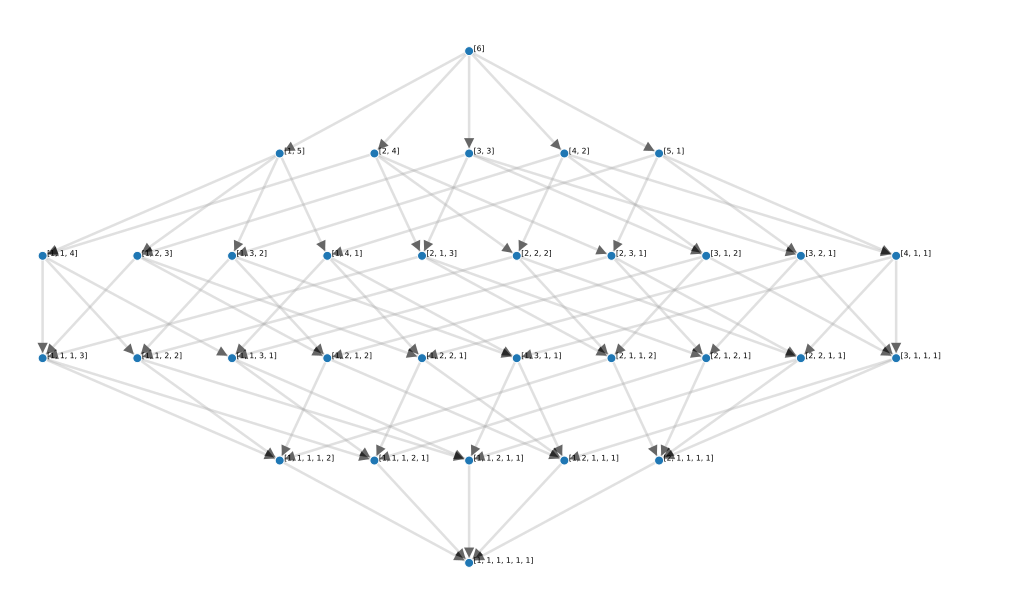
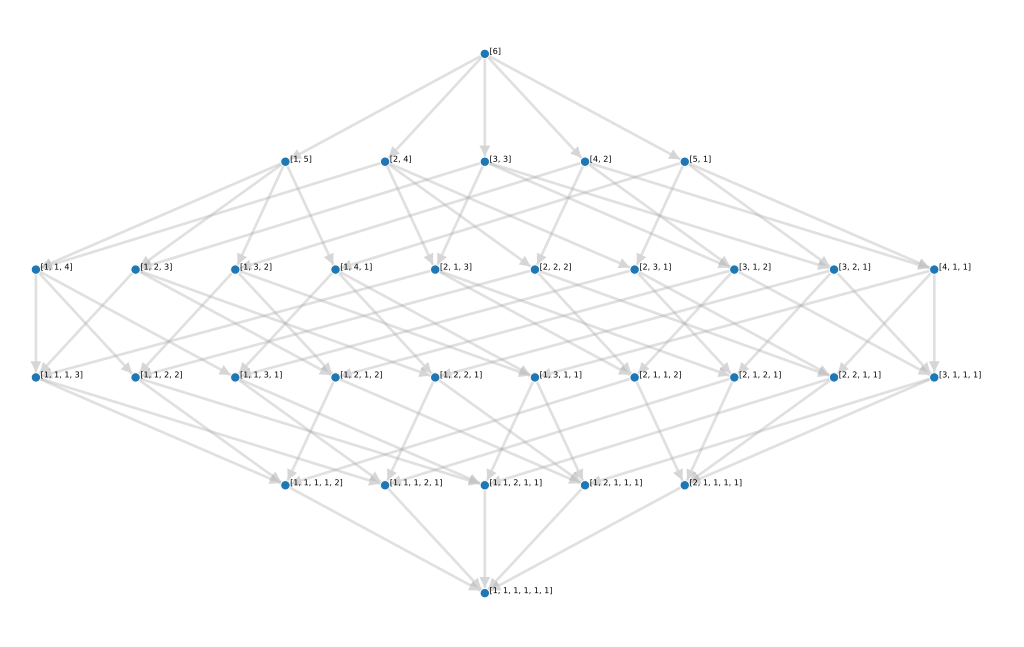
Add x shift offset since labels are on RHS

diff --git a/demo_ic6.html b/demo_ic6.html
@@ -1,3 +1,4 @@
+<html><body>
 <svg height="959.8080383923215" pointer-events="all" width="1520.08">
  <g>
   <rect height="959.8080383923215" opacity="0" width="1520.08" x="0" y="0">
@@ -426,3 +427,4 @@
   </defs>
  </g>
 </svg>
+</html></body>

diff --git a/svg_gen.py b/svg_gen.py
@@ -27,6 +27,12 @@ def svg_from_json(json, scale=800, pprint=False, printer=sys.stdout):
     span = pos.max(axis=0) - pos.min(axis=0)
     aspect_ratio = np.divide(*span) # wide if AR > 1, narrow if AR < 1
     h, w = 2 * scale / span
+    shift = (np.array([w, h]) - scale * span) / 2
+    shift_downscale = (2.5, 1) # Reduce the x (left) shift to account for RHS label
+    shift_loss = shift - (shift / shift_downscale)
+    shift /= shift_downscale
+    # Account for the trimmed left shift (avoid "spare width" on RHS)
+    w, h = (w, h) - shift_loss
     circ_radius = 7
     svg_tag = svg.new_tag("svg", attrs={
         "width": w,
@@ -49,8 +55,6 @@ def svg_from_json(json, scale=800, pprint=False, printer=sys.stdout):
     sources = [e.get("source") for e in json.get("links")]
     targets = [e.get("target") for e in json.get("links")]
     arcs = np.array([sources, targets]).T
-    shift = (np.array([w, h]) - scale * span) / 2
-    shift /= (2, 1) # Reduce the left shift a little to account for RHS label
     scaled_positions = scale * (pos - pos.min(axis=0)) + shift
     scaled_arc_positions = scale * (pos - pos.min(axis=0))[arcs] + shift
     arc_style = "stroke: rgb(170, 170, 170); stroke-width: 4px;"
@@ -98,7 +102,8 @@ def svg_from_json(json, scale=800, pprint=False, printer=sys.stdout):
         "markerWidth": vb_width,
         "markerHeight": vb_height,
         "preserveAspectRatio": "none",
-        "orient": "auto"
+        "orient": "auto",
+        "style": "fill: #bbb;"
     })
     tri_pts = [(0, -2), (4, 0), (0, 2)] # 3 endpoints of a triangle ==> "M0,-2L4,0L0,2"
     d_str = "".join([s + ','.join(map(repr, tri_pts[i])) for i, s in enumerate("MLL")])

diff --git a/README.md b/README.md
@@ -642,7 +642,12 @@ write the SVG output into a file on disk.
 
 - e.g. `svg_from_json_demo(printer=open("demo_ic6.svg", "w"))` generates
   [`demo_ic6.svg`](demo_ic6.svg)
-  - Displayed here via `inkscape -z -w 1024 demo_ic6.svg -e demo_ic6.png`
+
+```sh
+python -c 'from svg_gen import *; svg_from_json_demo(printer=open("demo_ic6.svg", "w"))' > /dev/null
+echo "$(echo '<html><body>'; cat demo_ic6.svg; echo '</html></body>')" > demo_ic6.html
+inkscape -z -w 1024 demo_ic6.svg -e demo_ic6.png
+```
 
 ![](demo_ic6.png)
 
